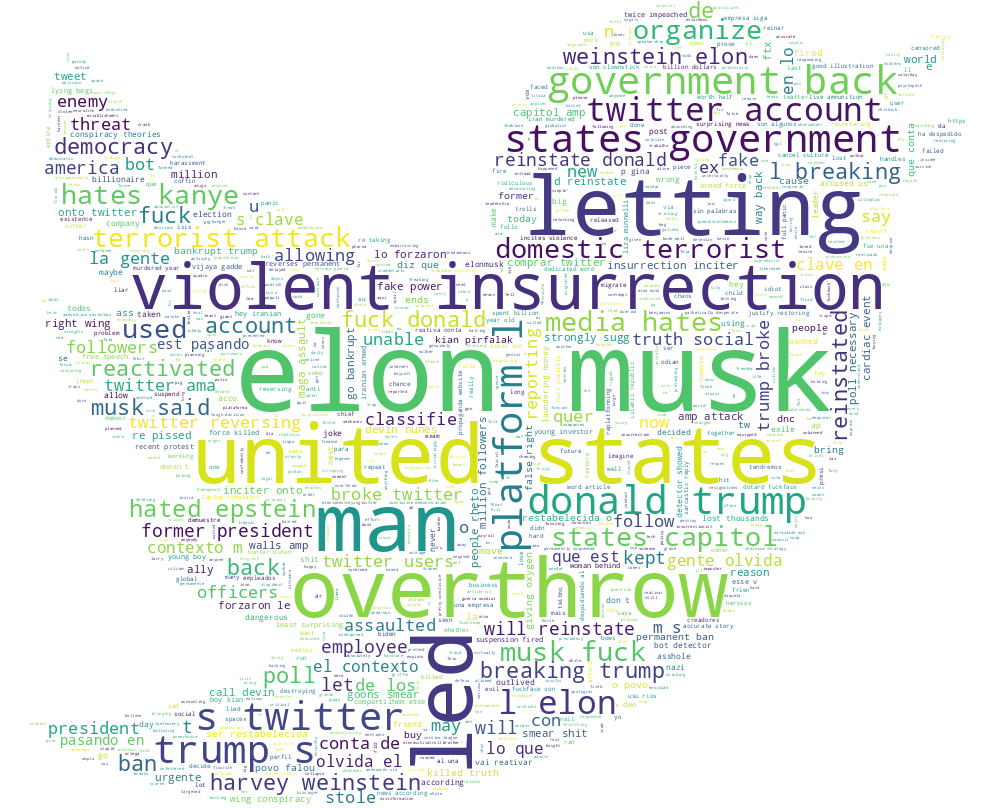
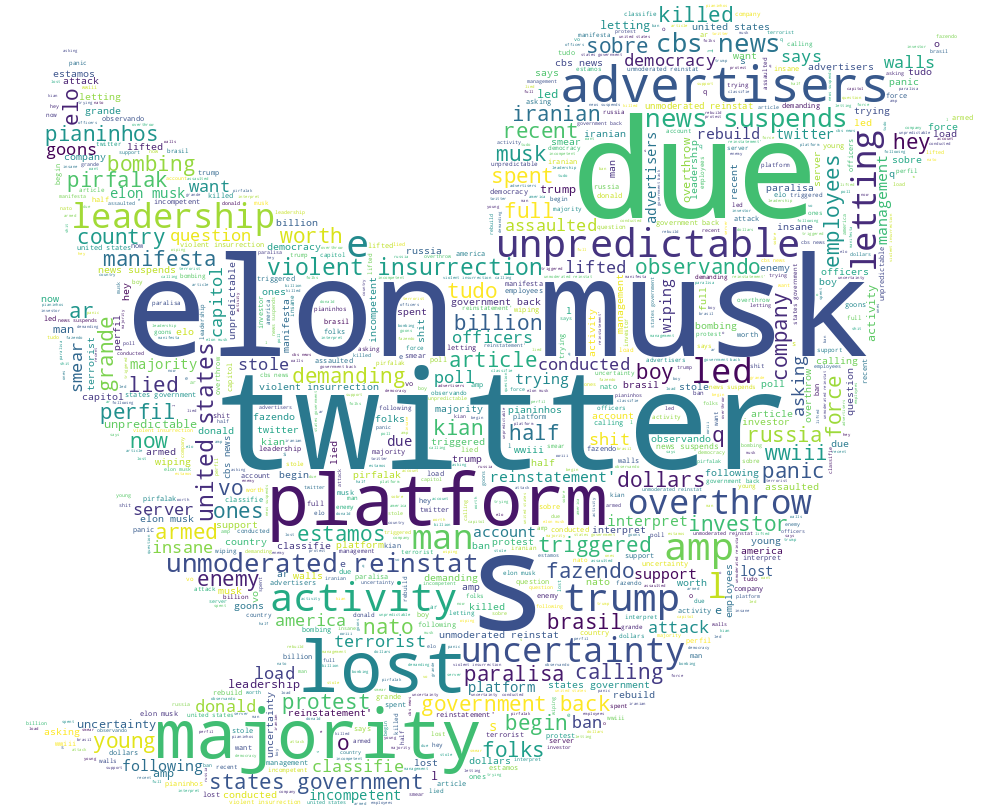
adding mongoDB

diff --git a/templates/index.html b/templates/index.html
@@ -58,10 +58,10 @@
     <div id="developer" tabindex="-1" aria-hidden="true" class="hidden overflow-y-auto overflow-x-hidden fixed top-0 right-0 left-0 z-50 p-4 w-full md:inset-0 h-modal md:h-full ">
         <div class="relative w-full max-w-2xl h-full md:h-auto">
             <!-- Modal content -->
-            <div class="relative bg-white rounded-lg shadow ">
+            <div class="relative bg-gray-200 rounded-lg shadow ">
                 <!-- Modal header -->
-                <div class="flex justify-between items-start p-4 rounded-t border-b ">
-                    <h3 class="text-xl font-semibold text-gray-900 ">
+                <div class="flex justify-between items-start p-4 rounded-t border-b flex">
+                    <h3 class="text-xl font-semibold text-gray-900 m-auto">
                         Presented By
                     </h3>
                     <button id="close" type="button" class="text-gray-400 bg-transparent hover:bg-gray-200 hover:text-gray-900 rounded-lg text-sm p-1.5 ml-auto inline-flex items-center transition ease-in-out delay-150 hover:-translate-y-1 hover:scale-110 hover:bg-gray-50 duration-150" data-bs-toggle="modal">
@@ -70,8 +70,8 @@
                     </button>
                 </div>
                 <!-- Modal body -->
-                <div class="p-6 space-y-6">
-                    <p class="text-base leading-relaxed text-gray-500 ">
+                <div class="p-6 space-y-6 flex">
+                    <p class="text-base leading-relaxed text-gray-500 m-auto">
                     63050095 Kanticha Trisri
                     <br>
                     63050096 Kanya Saenkham

diff --git a/test_02.py b/test_02.py
@@ -1,0 +1,116 @@
+#Sentiment Analysis
+# Import Libraries
+from textblob import TextBlob
+import sys
+import tweepy
+import matplotlib.pyplot as plt
+import pandas as pd
+import numpy as np
+import os
+import nltk
+import pycountry
+import re
+import string
+import collections
+import json
+from wordcloud import WordCloud, STOPWORDS
+from PIL import Image
+from nltk.sentiment.vader import SentimentIntensityAnalyzer
+from langdetect import detect
+from nltk.stem import SnowballStemmer
+from nltk.sentiment.vader import SentimentIntensityAnalyzer
+from sklearn.feature_extraction.text import CountVectorizer
+from dotenv import load_dotenv
+from pymongo import MongoClient
+import en_core_web_sm
+
+#https://medium.com/analytics-vidhya/visualizing-your-data-from-mongodb-to-word-cloud-with-python-3-3e9c4b4f2743
+
+#establing connection
+try:
+    connect = MongoClient()
+    print("Connected successfully!!!")
+except:
+    print("Could not connect to MongoDB")
+
+# connecting or switching to the database
+db = connect.wordCloud
+
+# creating or switching to demoCollection
+collection = db.wordCloudCollection
+
+# import access Twitter API from .env
+load_dotenv()
+
+# Variables that contains the user credentials to access Twitter API 
+ACCESS_TOKEN = os.getenv('ACCESS_TOKEN')
+ACCESS_SECRET = os.getenv('ACCESS_SECRET')
+CONSUMER_KEY = os.getenv('CONSUMER_KEY')
+CONSUMER_SECRET = os.getenv('CONSUMER_SECRET')
+
+# Setup tweepy to authenticate with Twitter credentials:
+auth = tweepy.OAuthHandler(CONSUMER_KEY, CONSUMER_SECRET)
+auth.set_access_token(ACCESS_TOKEN, ACCESS_SECRET)
+
+# Create the api to connect to twitter with your creadentials
+api = tweepy.API(auth)
+
+def find_document(collection, query):
+    documents = []
+    cursor = db[collection].find(query)
+    for document in cursor:
+        documents.append(document)
+    return documents
+
+def load_data(collection, data_entry):
+    docs = MongoRepository.find_document(collection, {})
+    details = []
+    for doc in docs:
+        details.append(doc[data_entry])
+    return details
+
+nlp = en_core_web_sm.load()
+
+symbols_to_replace = {'&': ' ', '#': ' ', '$': ' ', '£': ' ', '(': ' ', ')': ' ', '%': ' ', ':': ' ', '+': ' ',
+                      '-': ' ', '*': ' ', '/': ' ', '<': ' ', '=': ' ', '>': ' ', '?': ' ', '@': ' ', '[': ' ',
+                      ']': ' ', "\\": ' ', '^': ' ', '_': ' ', '`': ' ', '{': ' ', '}': ' ', '|': ' ', '~': ' ',
+                      '”': ' ', '\t': ' ', '\n': ' ', '\r': ' ', '\v': ' ', '\f': ' '}
+
+symbols_translator = str.maketrans(symbols_to_replace)
+content = content.translate(symbols_translator)
+doc = nlp(content)
+
+# Retrieve all ORGs and PERSONs
+org_and_persons = []
+for ent in doc.ents:
+    if ent.label_ == 'PERSON' or ent.label_ == 'ORG':
+        org_and_persons.append(ent.text)
+
+# Tokenize ORGs and PERSONs for filtering
+all_org_persons = ''
+for org_and_person in org_and_persons:
+    all_org_persons += org_and_person + ' '
+org_persons_doc = nlp(all_org_persons)
+org_persons_tokens = []
+for token in org_persons_doc:
+    org_persons_tokens.append(token.text)
+
+result = []
+for token in doc:
+    if not token.is_punct and not token.is_stop:
+        if token.text not in org_persons_tokens:
+            if (len(token.text) == 1 and token.pos_ == 'NUM') or len(token.text) > 1:
+                result.append(token.lemma_.lower().strip())
+
+# Exclude stop words
+stop_words = load_stop_words()
+result = [k.lower().strip() for k in result if k not in stop_words and k is not '']
+
+
+def load_stop_words():
+    stop_words_file = path.join(base_dir, "analyzer/resources/stop-words.txt")
+    with open(stop_words_file) as f:
+        stop_words_content = f.readlines()
+    stop_words = [x.strip() for x in stop_words_content]
+    logging.info(f'Loaded stop words: {stop_words}')
+    return stop_words

diff --git a/test03.py b/test03.py
@@ -11,7 +11,6 @@ import nltk
 import pycountry
 import re
 import string
-import json
 from wordcloud import WordCloud, STOPWORDS
 from PIL import Image
 from nltk.sentiment.vader import SentimentIntensityAnalyzer
@@ -70,11 +69,15 @@ def inputkeyword(keyword, noOfTweet, select) :
    neutral_list = []
    negative_list = []
    positive_list = []
-
+   all_tweet_list = []
    #for loop to query data 
+   collection.delete_many({})
    for tweet in tweets:
-      #print(tweet.text)
+      #append to array      
       tweet_list.append(tweet.text)
+      #insert into mongoDB
+      collection.insert_one(tweet._json)
+      #analysis   
       analysis = TextBlob(tweet.text)
       score = SentimentIntensityAnalyzer().polarity_scores(tweet.text)
       neg = score['neg']
@@ -92,21 +95,19 @@ def inputkeyword(keyword, noOfTweet, select) :
       elif pos == neg:
          neutral_list.append(tweet.text)
          neutral += 1
-   """
-   #query previous data
-   exist_data = collection.find_one()
 
-   #delete previous data in the storage 
-   if exist_data != None :
-      print("delete prvious data successfull")
-      collection.delete_many({})
+   #convert dict to list
+   prefixes = ['RT']
+   for document in collection.find():
+      document = document["text"]
+      res = list(document.split(" "))
+      for word in res:
+         if word in prefixes:
+            res.remove(word)
+      print (res)
+      all_tweet_list += res
+   print ("all_tweet_list ", all_tweet_list)
    
-   # Inserting data to local storage one by one
-   collection.insert_one(tweet._json)
-   current_data  = collection.find_one()
-   print(current_data)
-   """
-
    #Number of Tweets (Total, Positive, Negative, Neutral)
    tweet_list = pd.DataFrame(tweet_list)
    neutral_list = pd.DataFrame(neutral_list)
@@ -116,18 +117,18 @@ def inputkeyword(keyword, noOfTweet, select) :
    print("positive number:",len(positive_list))
    print("negative number: ", len(negative_list))
    print("neutral number: ",len(neutral_list))
-
+   
    #Creating new dataframe and new features
-   tw_list = pd.DataFrame(tweet_list)
+   #tw_list = pd.DataFrame.from_dict(data, orient="index")
+   tw_list = pd.DataFrame(all_tweet_list)
    tw_list["text"] = tw_list[0]
-   # print(tw_list)
+   print(tw_list["text"])
 
    #Removing RT, Punctuation etc
    remove_rt = lambda x: re.sub('RT @\w+: '," ",x)
    rt = lambda x: re.sub("(@[A-Za-z0–9]+)|([^0-9A-Za-z \t])|(\w+:\/\/\S+)"," ",x)
    tw_list["text"] = tw_list.text.map(remove_rt).map(rt)
    tw_list["text"] = tw_list.text.str.lower()
-   tw_list.head(10)
 
    #Calculating Negative, Positive, Neutral and Compound values
    tw_list[['polarity', 'subjectivity']] = tw_list['text'].apply(lambda Text: pd.Series(TextBlob(Text).sentiment))
@@ -147,26 +148,7 @@ def inputkeyword(keyword, noOfTweet, select) :
       tw_list.loc[index, 'neu'] = neu
       tw_list.loc[index, 'pos'] = pos
       tw_list.loc[index, 'compound'] = comp
-   tw_list.head(10)
 
-   print(tw_list["text"])
-   """
-   #query previous data
-   exist_data = collection.find_one()
-   print(exist_data)
-
-   #delete previous data in the storage 
-   if exist_data != None :
-      print("delete prvious data successfull")
-      collection.delete_many({})
-   
-   # Inserting data to local storage one by one
-   collection.insert_many(tw_list.all)
-
-   #check insert correct
-   current_data  = collection.find_one()
-   print(current_data)
-   """
    #Creating new data frames for all sentiments (positive, negative and neutral)
    tw_list_negative = tw_list[tw_list["sentiment"]=="negative"]
    tw_list_positive = tw_list[tw_list["sentiment"]=="positive"]

diff --git a/sentiment.py b/sentiment.py
@@ -19,23 +19,9 @@ from nltk.stem import SnowballStemmer
 from nltk.sentiment.vader import SentimentIntensityAnalyzer
 from sklearn.feature_extraction.text import CountVectorizer
 from dotenv import load_dotenv
-from pymongo import MongoClient
 
 # import nltk
 # nltk.download('vader_lexicon')
-
-#establing connection
-try:
-    connect = MongoClient()
-    print("Connected successfully!!!")
-except:
-    print("Could not connect to MongoDB")
-
-# connecting or switching to the database
-db = connect.wordCloud
-
-# creating or switching to demoCollection
-collection = db.wordCloudCollection
 
 # import access Twitter API from .env
 load_dotenv()
@@ -92,27 +78,6 @@ def inputkeyword(keyword, noOfTweet, select) :
          neutral_list.append(tweet.text)
          neutral += 1
 
-   #out of for loop : convert decimal into percentage
-   positive = percentage(positive, noOfTweet)
-   negative = percentage(negative, noOfTweet)
-   neutral = percentage(neutral, noOfTweet)
-   polarity = percentage(polarity, noOfTweet)
-   positive = format(positive, '.1f')
-   negative = format(negative, '.1f')
-   neutral = format(neutral, '.1f')
-   print(tweet._json)
-
-   #query previous data
-   exist_data = collection.find()
-
-   #delete previous data in the storage 
-   if exist_data != None :
-      print("delete prvious data successfull")
-      collection.delete_many({})
-   
-   # Inserting data to local storage one by one
-   collection.insert_one(tweet._json)
-
    #Number of Tweets (Total, Positive, Negative, Neutral)
    tweet_list = pd.DataFrame(tweet_list)
    neutral_list = pd.DataFrame(neutral_list)
@@ -133,7 +98,6 @@ def inputkeyword(keyword, noOfTweet, select) :
    rt = lambda x: re.sub("(@[A-Za-z0–9]+)|([^0-9A-Za-z \t])|(\w+:\/\/\S+)"," ",x)
    tw_list["text"] = tw_list.text.map(remove_rt).map(rt)
    tw_list["text"] = tw_list.text.str.lower()
-   tw_list.head(10)
 
    #Calculating Negative, Positive, Neutral and Compound values
    tw_list[['polarity', 'subjectivity']] = tw_list['text'].apply(lambda Text: pd.Series(TextBlob(Text).sentiment))
@@ -153,21 +117,11 @@ def inputkeyword(keyword, noOfTweet, select) :
       tw_list.loc[index, 'neu'] = neu
       tw_list.loc[index, 'pos'] = pos
       tw_list.loc[index, 'compound'] = comp
-   tw_list.head(10)
 
    #Creating new data frames for all sentiments (positive, negative and neutral)
    tw_list_negative = tw_list[tw_list["sentiment"]=="negative"]
    tw_list_positive = tw_list[tw_list["sentiment"]=="positive"]
    tw_list_neutral = tw_list[tw_list["sentiment"]=="neutral"]
-
-   #count value 
-   def count_values_in_column(data,feature):
-      total=data.loc[:,feature].value_counts(dropna=False)
-      percentage=round(data.loc[:,feature].value_counts(dropna=False,normalize=True)*100,2)
-      return pd.concat([total,percentage],axis=1,keys=['Total','Percentage'])
-
-   #Count_values for sentiment
-   count_values_in_column(tw_list,"sentiment")
 
    #Function to Create Wordcloud for all tweet
    def create_wordcloud(text):
@@ -226,11 +180,6 @@ def inputkeyword(keyword, noOfTweet, select) :
    #Creating wordcloud for all tweets
    elif select == 4:
       create_wordcloud(tw_list["text"].values)
-
-   #Calculating tweet’s lenght and word count
-   tw_list['text_len'] = tw_list['text'].astype(str).apply(len)
-   tw_list['text_word_count'] = tw_list['text'].apply(lambda x: len(str(x).split()))
-   round(pd.DataFrame(tw_list.groupby("sentiment").text_len.mean()),2)
    return 
 
 #input from user 
